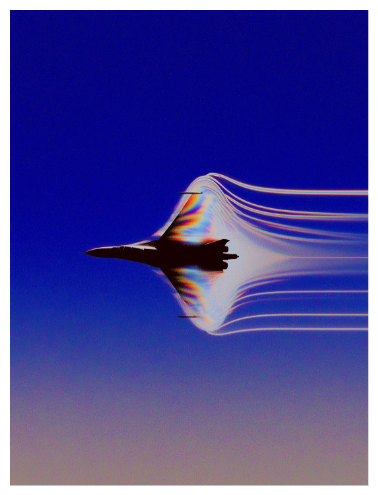
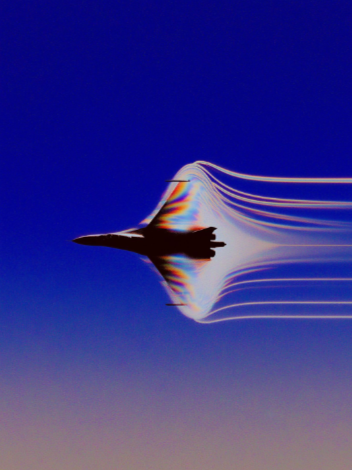
fix: update middleware config to exclude additional image formats

Changed region(s): [[0.0, 0.0, 1.0, 1.0]]

diff --git a/src/middleware.ts b/src/middleware.ts
@@ -30,6 +30,6 @@ export async function middleware(req: NextRequest) {
 
 export const config = {
   matcher: [
-    "/((?!_next/static|_next/image|favicon.ico|public).*)",
+    "/((?!_next/static|_next/image|favicon.ico|.*\\.(?:svg|png|jpg|jpeg|gif|webp|ico|woff2?|ttf|otf)$).*)",
   ],
 };